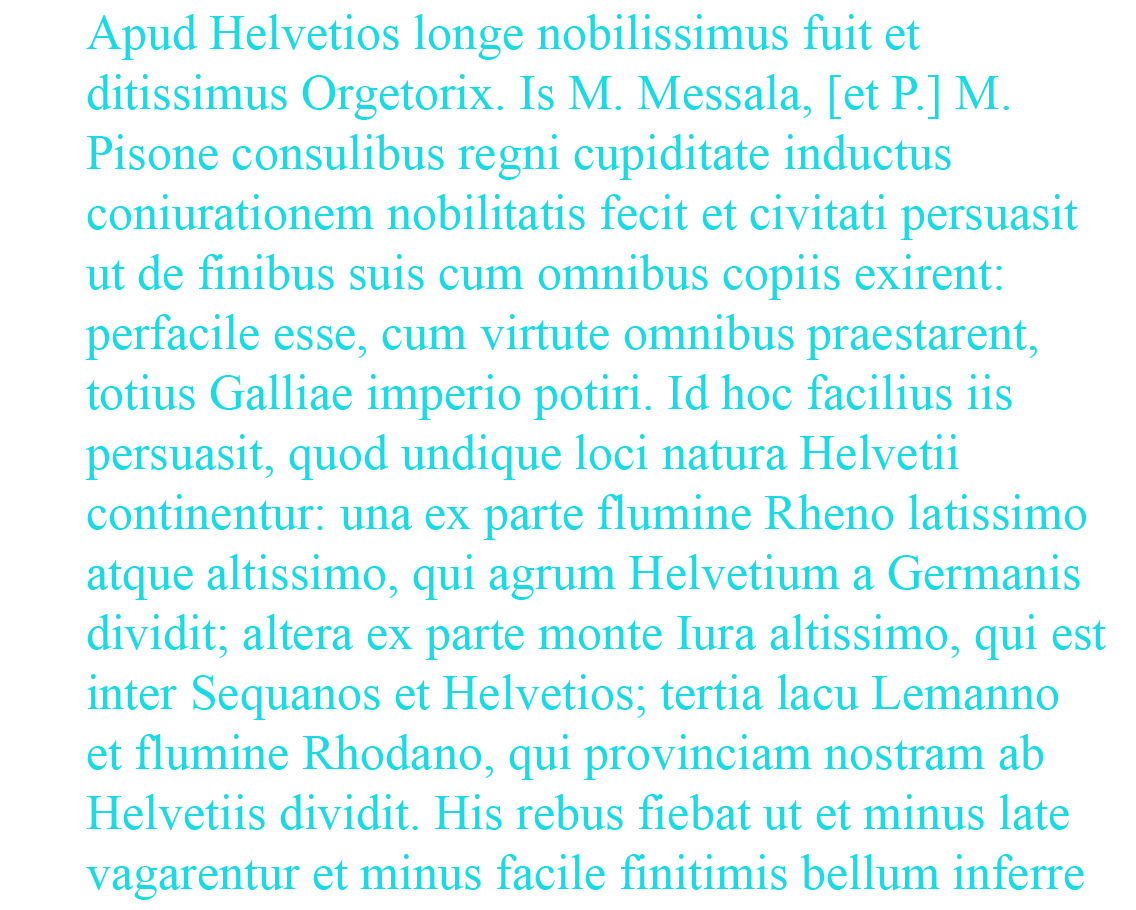
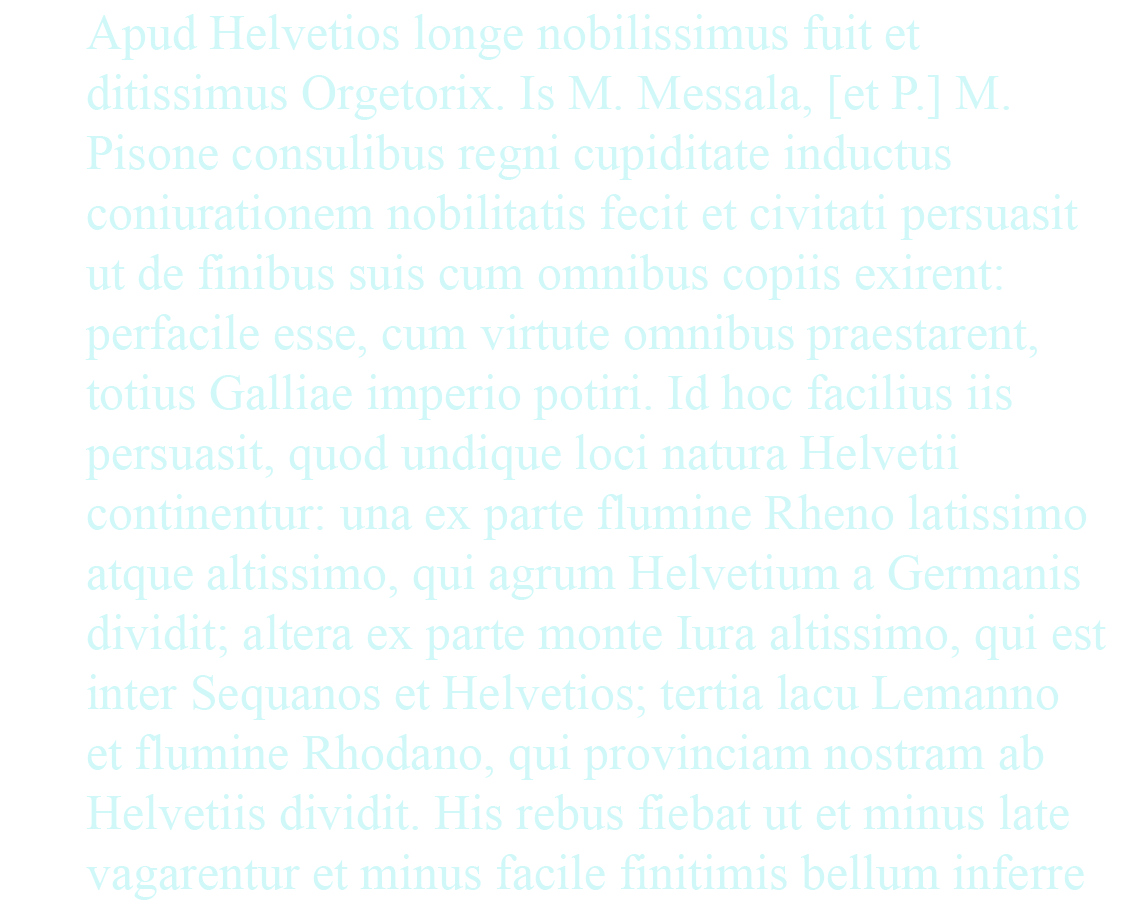
correccion imagen cesar

diff --git a/style.css b/style.css
@@ -19,29 +19,17 @@ body {
 
 
 body::before {
-    background-image: url("img/loremIpsum.png");
+    background-image: url("img/loremIpsum.png"), url("img/caesar.png");
     background-repeat: no-repeat;
-    background-position: center; 
+    background-position: center, right; 
     content: "";
     display: block;
     position: absolute;
     width: 100%;
     height: 100%;
-    opacity: 0.2;
-}
-
-body::after {
-    background-image: url("img/caesar.png"); /* <!--fuente imagen: https://sites.dartmouth.edu/jacko/2019/11/18/history-department-uncovers-concrete-evidence-that-julius-caesar-was-in-fact-not-a-dartmouth-alumnus/--> */
-    background-repeat: no-repeat;
-    background-position: right; 
-    content: "";
-    display: block;
-    position: absolute;
-    width: 100%;
-    height: 100%;
+    opacity: 1;
     margin-right: 40%;
-    margin-bottom: 4%;
-    opacity: 0.9;
+    margin-bottom: 3%;
 }
 
 /* Top navigation responsive menu */

diff --git a/app.js b/app.js
@@ -195,10 +195,12 @@ function copiarMensaje()
     navigator.clipboard.writeText(textoInput);
     //mostrar mensaje de éxito
     let mensaje = document.getElementById("copiado");
+
     //lo hago aparecer cambiando su display en css de "none" a "block"
     mensaje.style.display = "block";
+       
     //lo hago desaparecer con setTimeout, que espera una funcion y un tiempo
     setTimeout(function(){
         mensaje.style.display = "none";
-    }, 2000);
+    }, 1000);
 }
